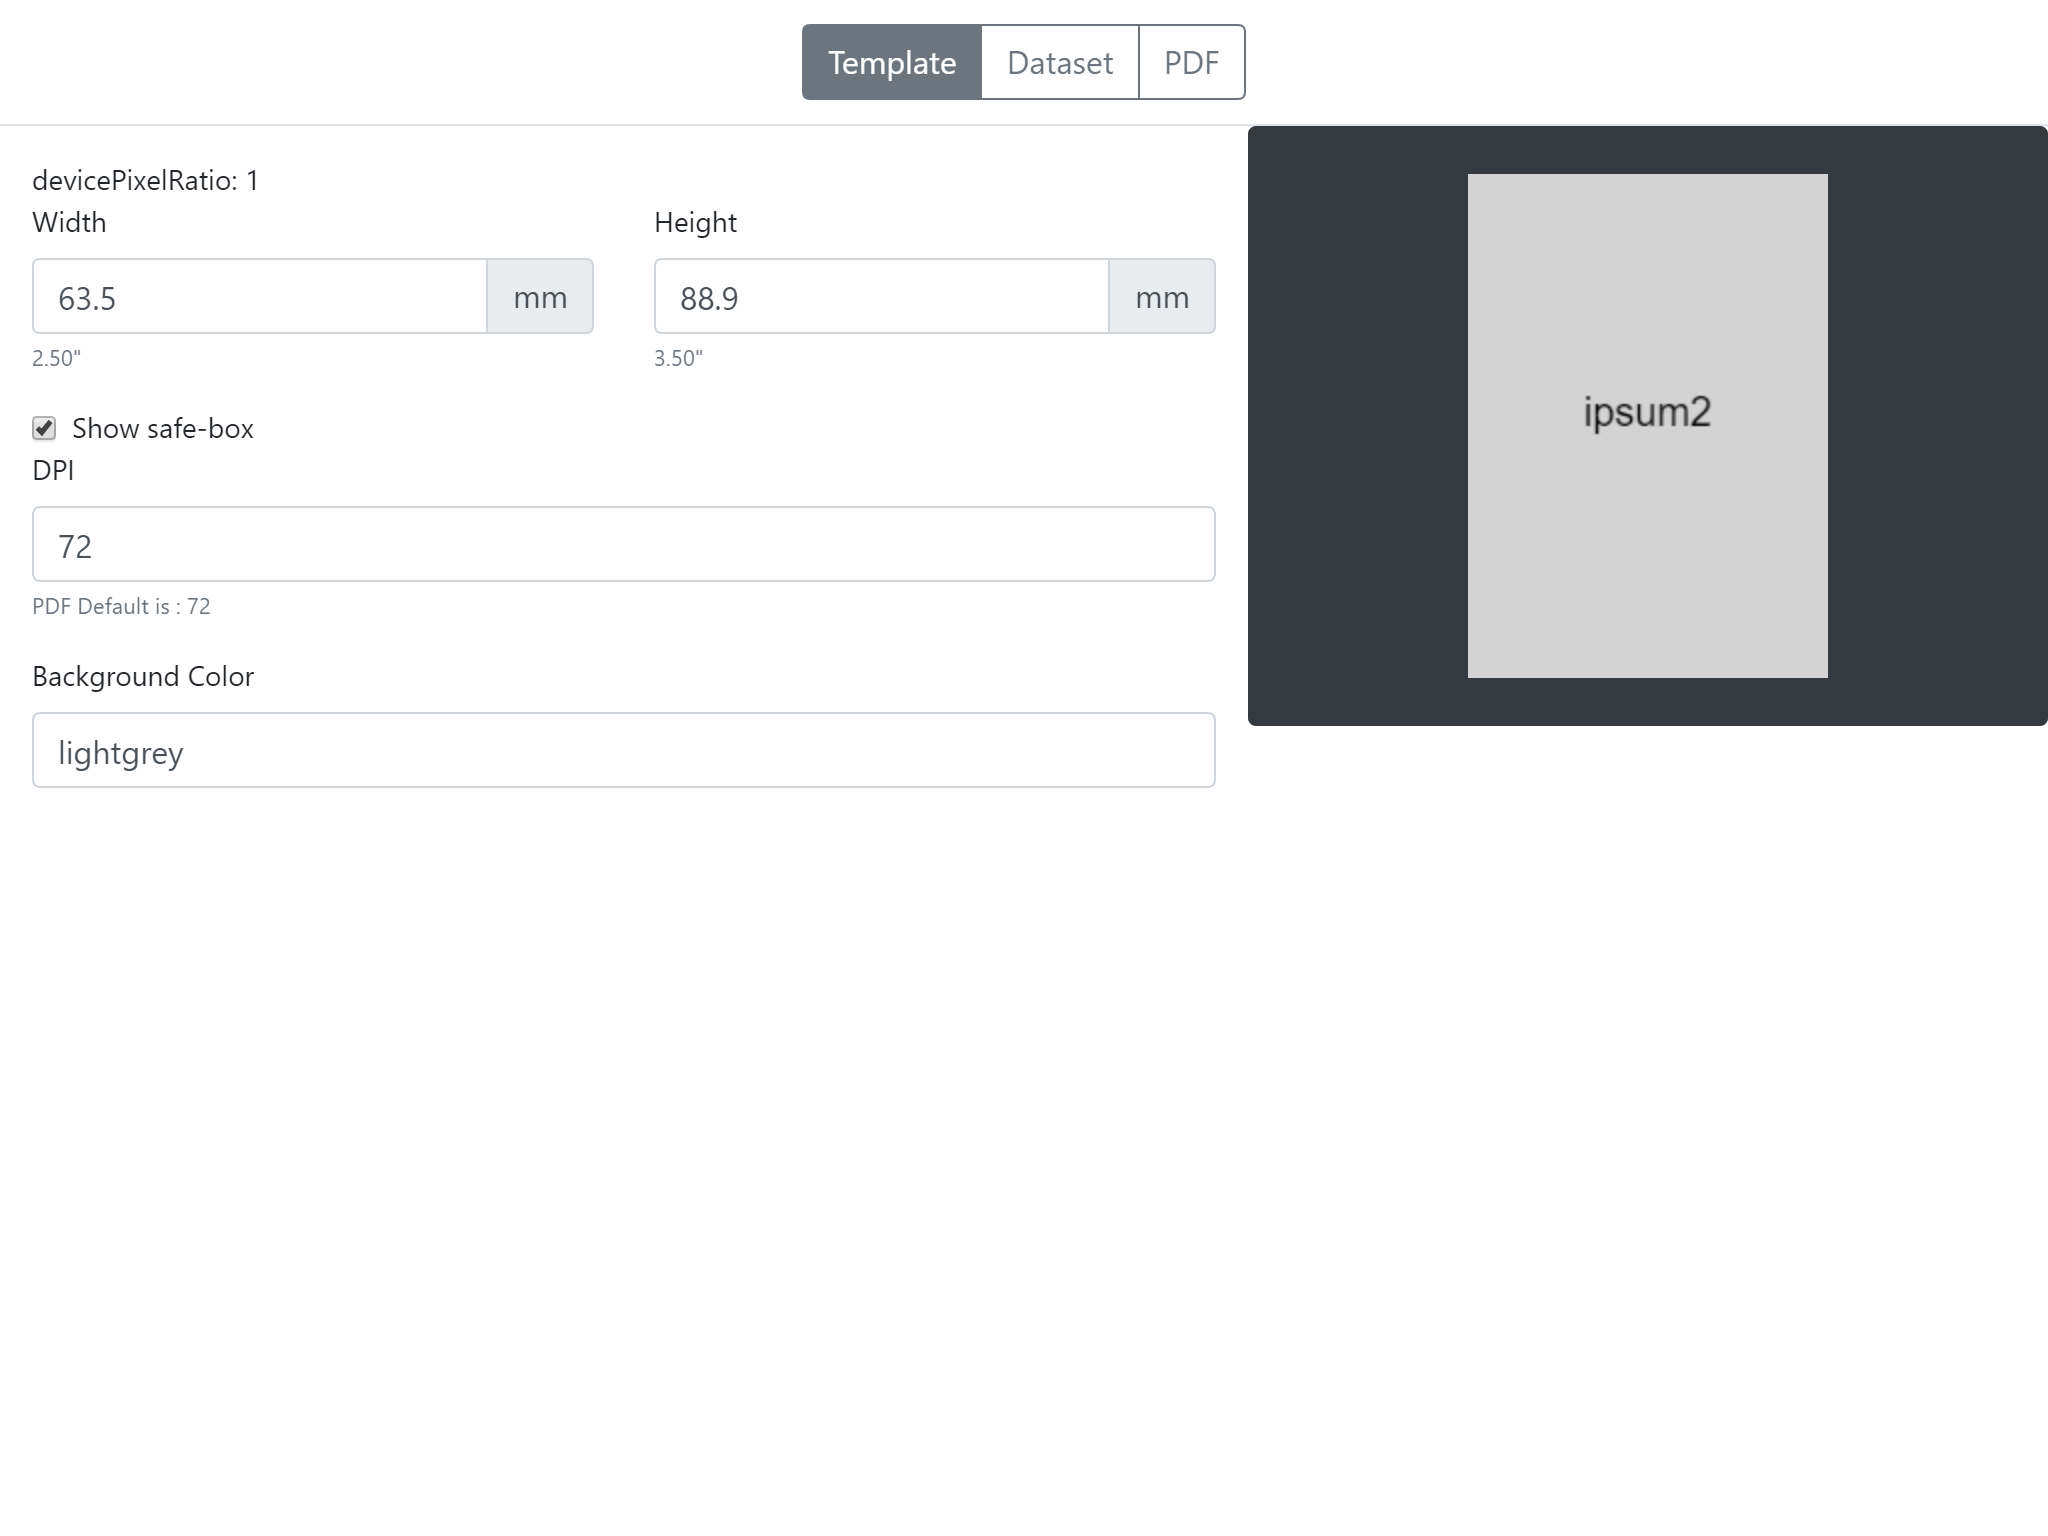
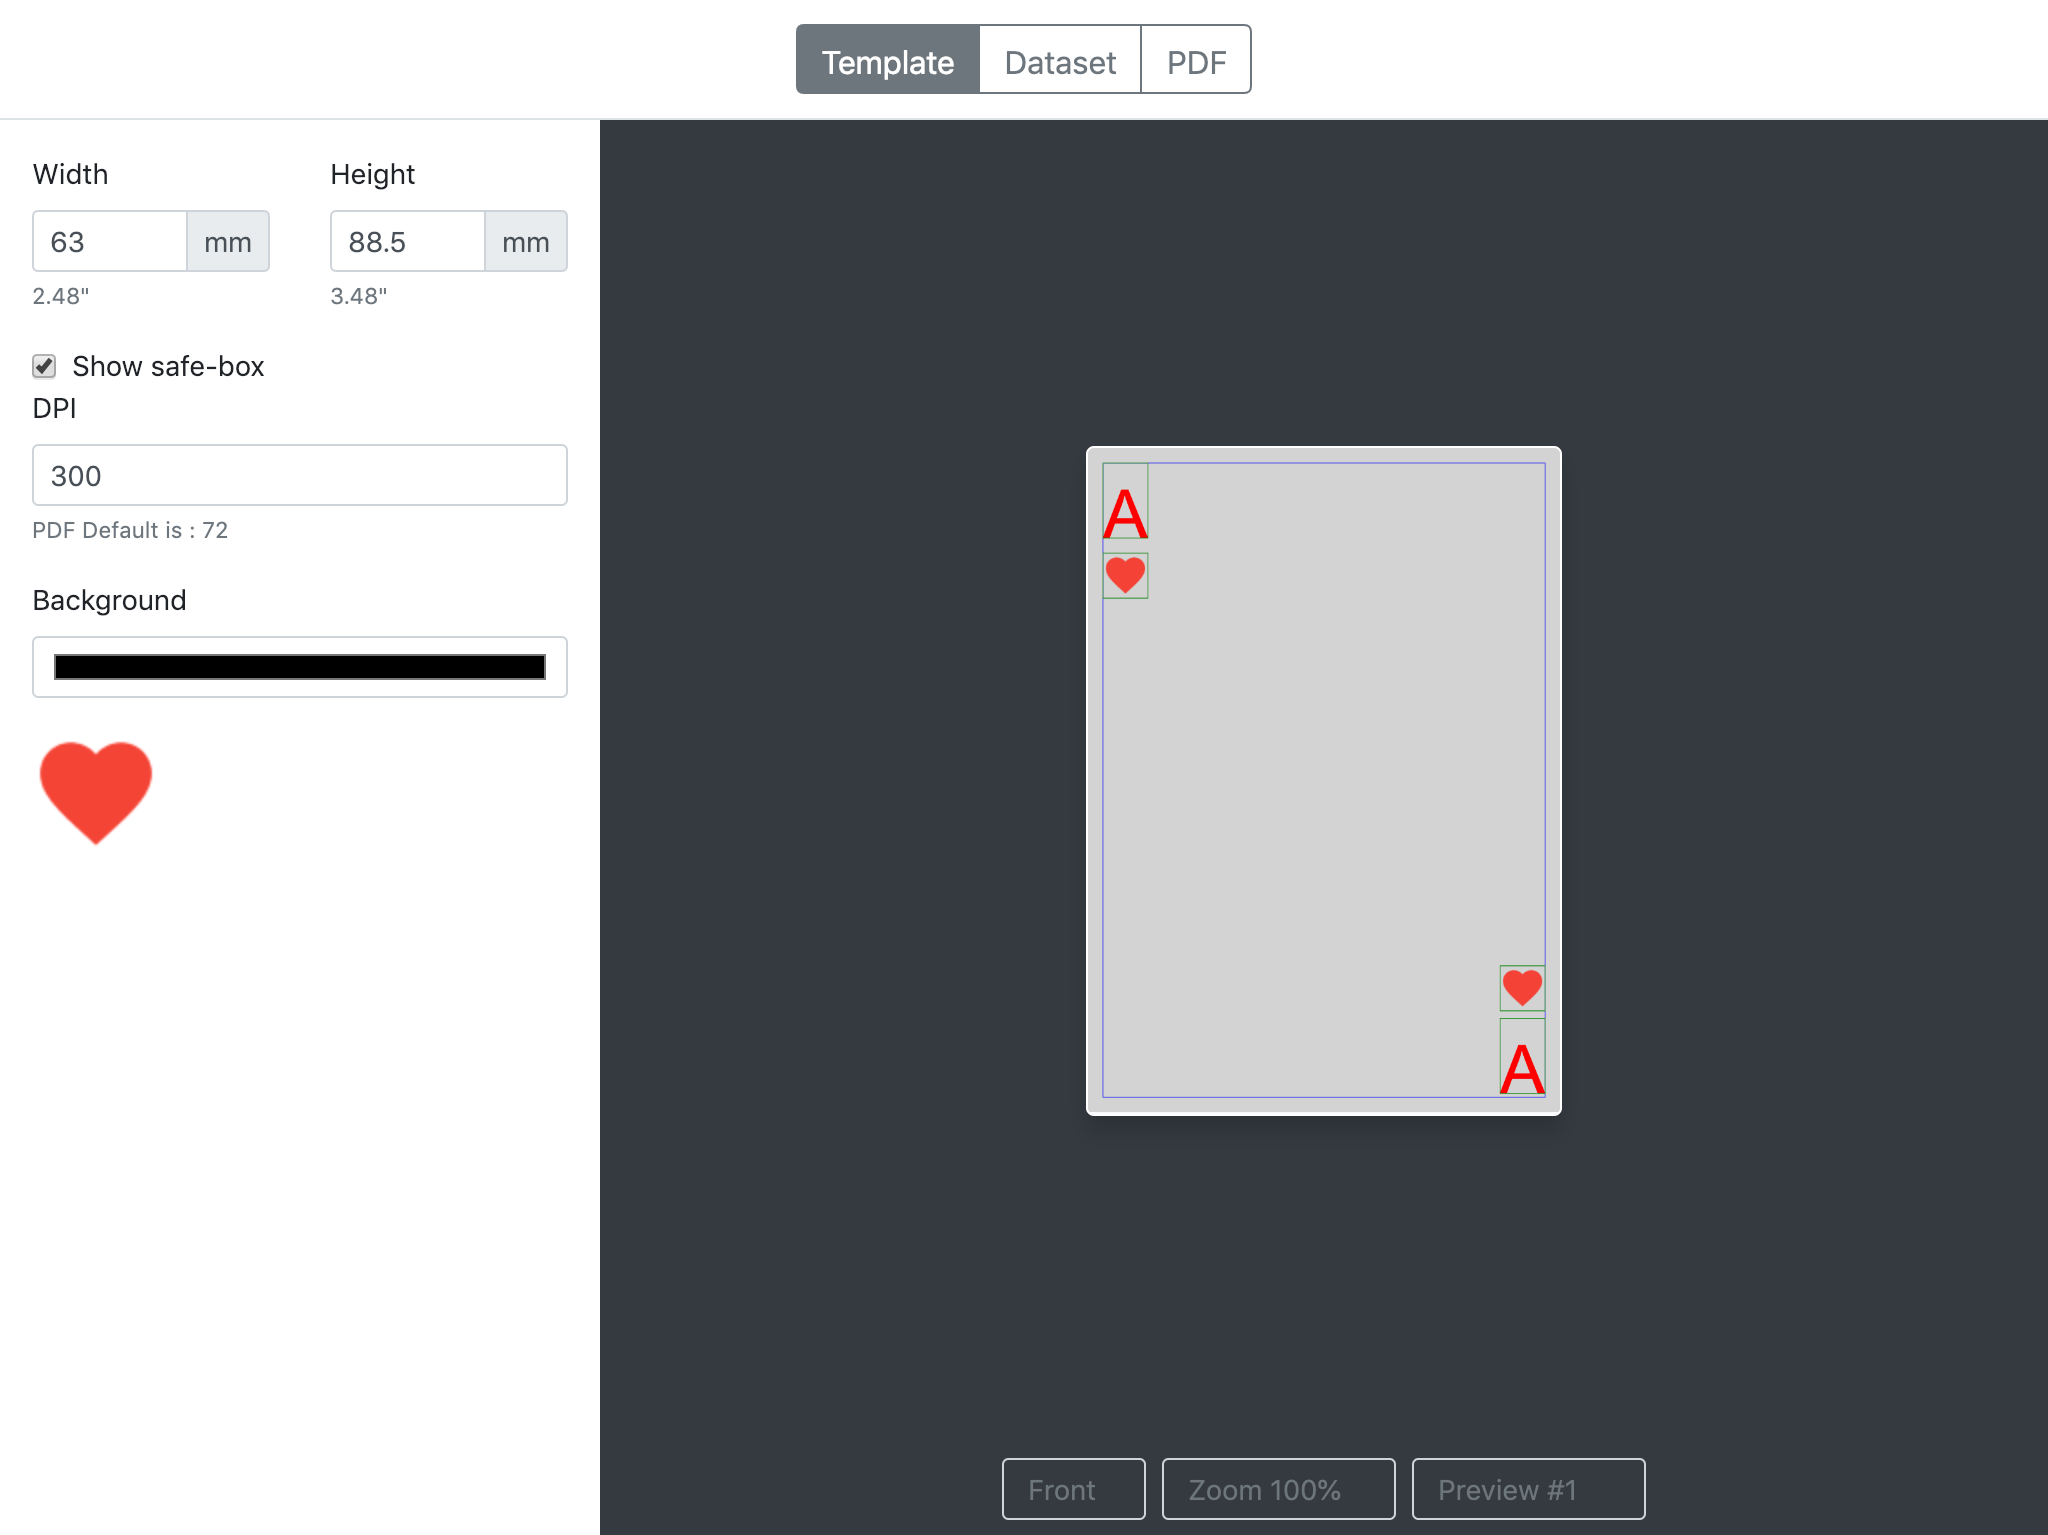
...

diff --git a/src/app/main/main.component.ts b/src/app/main/main.component.ts
@@ -9,6 +9,10 @@ import { AceConfigInterface } from 'ngx-ace-wrapper';
 import 'brace';
 import 'brace/mode/json';
 import 'brace/theme/twilight';
+// import { heartImg } from 'src/data/heart';
+
+// tslint:disable-next-line:max-line-length
[1 lines of base64/hex data omitted]
 
 pdfMake.vfs = pdfFonts.pdfMake.vfs;
 
@@ -35,13 +39,14 @@ export class MainComponent implements OnInit {
   zoomList = [25, 50, 85, 100, 125, 150, 200];
   zoom = 100;
   side = 'front';
-  enableDpr = true;
+  dpi = 72;
 
   public aceConfig: AceConfigInterface = {
     mode: 'json',
     theme: 'twilight',
     readOnly: false
   };
+  enableDpr = false;
 
   constructor() { }
 
@@ -58,6 +63,7 @@ export class MainComponent implements OnInit {
         setTimeout(() => {
           this.canvas = this.canvasRef.nativeElement as HTMLCanvasElement;
           this.ctx = this.canvas.getContext('2d');
+          this.dpi = this.project.print.dpi;
           this.enableDpr = false;
           this.previewCard();
         });
@@ -67,6 +73,7 @@ export class MainComponent implements OnInit {
         break;
       case 'PDF':
         this.enableDpr = false;
+        this.dpi = 72;
         this.generatePdf();
         break;
 
@@ -81,7 +88,7 @@ export class MainComponent implements OnInit {
   generatePdf() {
     const cards = [];
     const showSafeBox = this.showSafeBox;
-    this.showSafeBox = false;
+    // this.showSafeBox = false;
     this.deck.data.forEach((d, i) => {
       this.draw(d);
       const data = this.canvas.toDataURL();
@@ -97,26 +104,28 @@ export class MainComponent implements OnInit {
   }
 
   getDocDefinition(cards) {
+
+    const scale = 72 / this.project.print.dpi;
     const body = [];
     for (let i = 0; i < cards.length; i = i + 4) {
       const row = [];
 
-      row.push({ image: cards[i] });
+      row.push({ width: this.getPixels(this.deck.width) * scale, image: cards[i] });
 
       if (cards[i + 1]) {
-        row.push({ image: cards[i + 1] || '' });
+        row.push({ width: this.getPixels(this.deck.width) * scale, image: cards[i + 1] || '' });
       } else {
         row.push('');
       }
 
       if (cards[i + 2]) {
-        row.push({ image: cards[i + 2] || '' });
+        row.push({ width: this.getPixels(this.deck.width) * scale, image: cards[i + 2] || '' });
       } else {
         row.push('');
       }
 
       if (cards[i + 3]) {
-        row.push({ image: cards[i + 3] || '' });
+        row.push({ width: this.getPixels(this.deck.width) * scale, image: cards[i + 3] || '' });
       } else {
         row.push('');
       }
@@ -131,8 +140,8 @@ export class MainComponent implements OnInit {
             body: body
           },
           layout: {
-            hLineWidth: function (i, node) { return 0; },
-            vLineWidth: function (i, node) { return 0; },
+            hLineWidth: function (i, node) { return 1; },
+            vLineWidth: function (i, node) { return 1; },
             paddingLeft: function (i, node) { return 0; },
             paddingRight: function (i, node) { return 2; },
             paddingTop: function (i, node) { return 0; },
@@ -165,17 +174,18 @@ export class MainComponent implements OnInit {
   }
 
   draw(card, zoom = 100) {
-    const z = zoom / 100 * window.devicePixelRatio;
-    const w = this.getPixelFromMM(this.deck.width);
-    const h = this.getPixelFromMM(this.deck.height);
+    // const dpr = this.enableDpr ? window.devicePixelRatio || 1 : 1;
+    const z = zoom / 100; // * window.devicePixelRatio;
+    const scale = 96 / this.project.print.dpi;
+    console.log(scale);
+    const w = this.getPixels(this.deck.width);
+    const h = this.getPixels(this.deck.height);
 
     this.canvas.width = w;
     this.canvas.height = h;
 
-    this.canvas.style.width = `${w / this.project.print.dpi * 72 * z}px`;
-    this.canvas.style.height = `${h / this.project.print.dpi * 72 * z}px`;
-
-    // this.ctx.scale(.2, .2);
+    this.canvas.style.width = `${w * scale * z}px`;
+    this.canvas.style.height = `${h * scale * z}px`;
 
     this.clearCard();
     this.drawSafeBox();
@@ -185,60 +195,99 @@ export class MainComponent implements OnInit {
       this.drawElem(e, card);
     });
 
+    this.ctx.scale(1 / scale, 1 / scale);
   }
 
-  getPixelFromMM(mm: number) {
-    const dpr = this.enableDpr ? window.devicePixelRatio : 1;
+  getPixels(mm: number) {
+    const dpr = this.enableDpr ? window.devicePixelRatio || 1 : 1;
     return mm * 0.0393701 * this.project.print.dpi * dpr;
   }
 
   clearCard() {
     this.ctx.fillStyle = this.deck.background || 'white';
-    this.rect(0, 0, this.canvas.width, this.canvas.height);
+    this.rect(0, 0, this.getPixels(this.canvas.width), this.getPixels(this.canvas.height));
   }
 
   drawElem(elem: Elem, card: any) {
     switch (elem.type) {
       case ElemType.image:
+        const ci = elem.content as ContentText;
+        const myImage = new Image();
+        myImage.src = heartImg;
+        this.ctx.drawImage(
+          myImage,
+          this.getPixels(elem.position.left),
+          this.getPixels(elem.position.top),
+          this.getPixels(elem.position.width),
+          this.getPixels(elem.position.height),
+        );
+        if (elem.border) {
+          this.ctx.beginPath();
+          this.ctx.rect(
+            this.getPixels(elem.position.left),
+            this.getPixels(elem.position.top),
+            this.getPixels(elem.position.width),
+            this.getPixels(elem.position.height),
+          );
+          this.ctx.closePath();
+          this.ctx.strokeStyle = elem.border.color;
+          this.ctx.lineWidth = this.getPixels(elem.border.size);
+          this.ctx.stroke();
+        }
         break;
       case ElemType.text:
-        const c = elem.content as ContentText;
-        this.ctx.fillStyle = c.color;
+        const ct = elem.content as ContentText;
+        this.ctx.fillStyle = ct.color;
         // this.ctx.textAlign = 'center';
-        this.ctx.font = c.font;
-        const text = c.text.startsWith('=') ? card[c.text.substr(1, c.text.length - 1)] : c.text;
-        this.ctx.fillText(text, this.getPixelFromMM(elem.position.left), this.getPixelFromMM(elem.position.top + elem.position.height));
+        this.ctx.font = `${this.getPixels(ct.fontSize)}px ${ct.fontFamily}`;
+        console.log(this.ctx.font);
+        const text = ct.text.startsWith('=') ? card[ct.text.substr(1, ct.text.length - 1)] : ct.text;
+        // this.ctx.rotate(elem.position.rotate * Math.PI / 180);
+        this.ctx.fillText(text, this.getPixels(elem.position.left), this.getPixels(elem.position.top + elem.position.height));
 
         if (elem.border) {
           this.ctx.beginPath();
           this.ctx.rect(
-            this.getPixelFromMM(elem.position.left),
-            this.getPixelFromMM(elem.position.top),
-            this.getPixelFromMM(elem.position.width),
-            this.getPixelFromMM(elem.position.height),
+            this.getPixels(elem.position.left),
+            this.getPixels(elem.position.top),
+            this.getPixels(elem.position.width),
+            this.getPixels(elem.position.height),
           );
           this.ctx.closePath();
           this.ctx.strokeStyle = elem.border.color;
-          this.ctx.lineWidth = elem.border.size;
+          this.ctx.lineWidth = this.getPixels(elem.border.size);
           this.ctx.stroke();
         }
+        // this.ctx.rotate(elem.position.rotate * -1 * Math.PI / 180);
 
         break;
     }
+
+    this.ctx.beginPath();
+    this.ctx.rect(
+      this.getPixels(elem.position.left),
+      this.getPixels(elem.position.top),
+      this.getPixels(elem.position.width),
+      this.getPixels(elem.position.height),
+    );
+    this.ctx.closePath();
+    this.ctx.strokeStyle = 'green';
+    this.ctx.lineWidth = this.getPixels(.1);
+    this.ctx.stroke();
   }
 
   drawSafeBox(m = 2) {
     if (!this.showSafeBox) { return; }
     this.ctx.beginPath();
     this.ctx.rect(
-      this.getPixelFromMM(m),
-      this.getPixelFromMM(m),
-      this.canvas.width - this.getPixelFromMM(m * 2),
-      this.canvas.height - this.getPixelFromMM(m * 2),
+      this.getPixels(m),
+      this.getPixels(m),
+      this.getPixels(this.deck.width - (m * 2)),
+      this.getPixels(this.deck.height - (m * 2)),
     );
     this.ctx.closePath();
     this.ctx.strokeStyle = 'blue';
-    this.ctx.lineWidth = 1;
+    this.ctx.lineWidth = this.getPixels(.1);
     this.ctx.stroke();
   }
 }

diff --git a/src/app/main/main.component.html b/src/app/main/main.component.html
@@ -56,6 +56,8 @@
               <label for="">Background</label>
               <input type="color" class="form-control form-control-sm" [(ngModel)]="deck.background" (change)="previewCard()">
             </div>
[1 lines of base64/hex data omitted]
+              alt="">
           </div>
         </div>
         <div class="d-flex flex-column w-100 bg-dark align-items-center">

diff --git a/src/app/models/all.ts b/src/app/models/all.ts
@@ -38,7 +38,8 @@ export enum ElemType {
 export interface ContentText {
     text: string;
     position: ContentPosition;
-    font: string;
+    fontSize: number;
+    fontFamily: string;
     color: string;
 }
 
